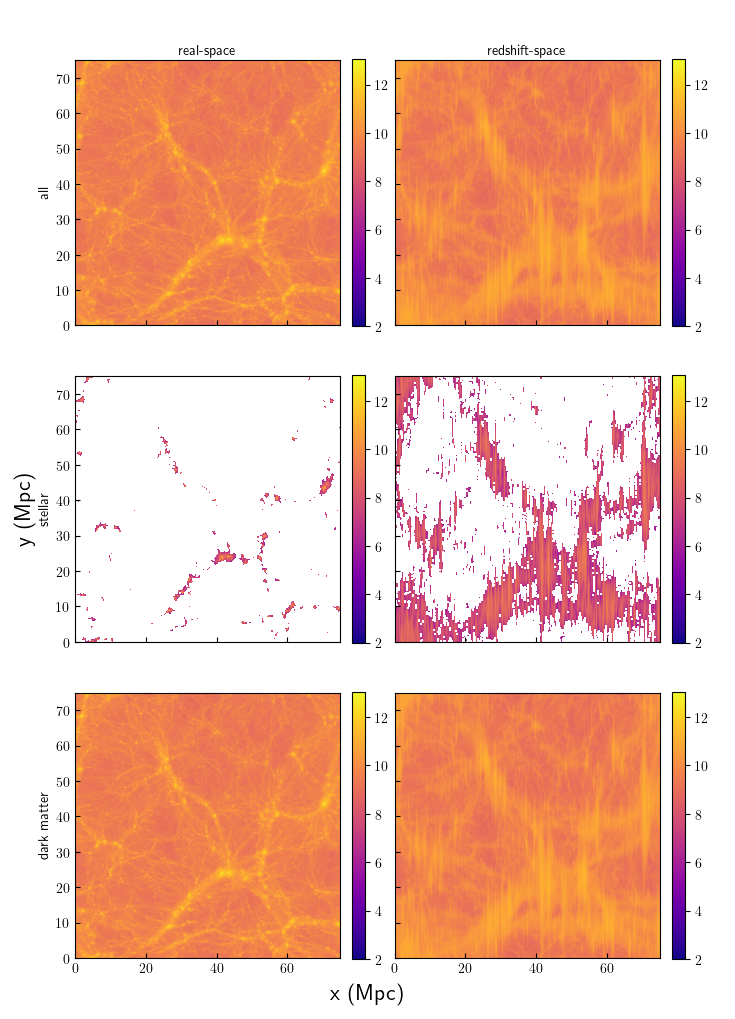
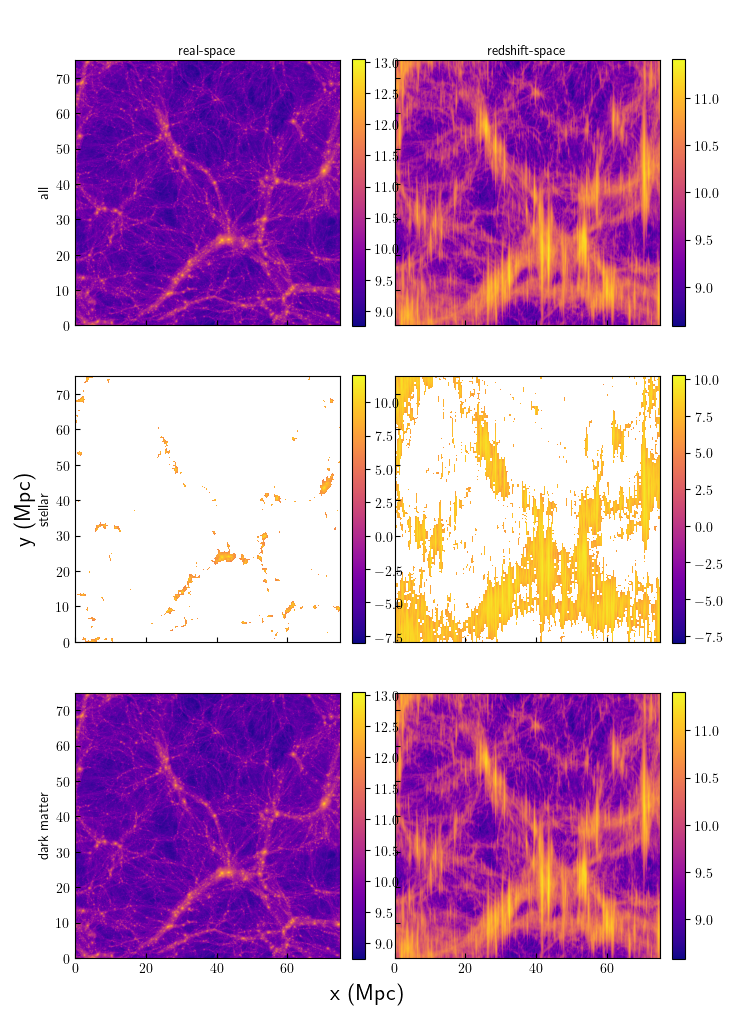
new slice plots!

diff --git a/hc_lib/plots/plot_lib.py b/hc_lib/plots/plot_lib.py
@@ -8,6 +8,7 @@ import copy
 from mpl_toolkits.axes_grid1 import make_axes_locatable
 mpl.rcParams['text.usetex'] = True
 
+
 def getPaths(directory):
     paths = []
     for (root, dirs, files) in os.walk(directory):
@@ -225,9 +226,9 @@ def fillpks(k, pks, boxsize, resolution, keylist = None, label = '',
     return
 
 def plot_slices(field, key_array, row_labels, col_labels, bar_text,
-        panel_length, panel_bt, border, same_cmap = True):
+        panel_length, panel_bt, border, same_cmap = True, 
+        cmap_cycle = ["plasma"]):
     
-    cmap = copy.copy(mpl.cm.get_cmap("plasma"))
     dim = key_array.shape
     xborder = [border*1.5, border]
     fig, panels = createFig(panel_length, dim[0], dim[1], panel_bt, xborder, border)
@@ -249,9 +250,11 @@ def plot_slices(field, key_array, row_labels, col_labels, bar_text,
             key = key_array[i][j]
 
             if same_cmap:
+                cmap = copy.copy(mpl.cm.get_cmap(cmap_cycle[0]))
                 im = plt.imshow(field.slices[key][:], extent=(0, field.box, 0, field.box),
                     origin='lower', cmap=cmap, vmin=nlim[0], vmax=nlim[1])
             else:
+                cmap = copy.copy(mpl.cm.get_cmap(cmap_cycle[j%len(cmap_cycle)]))
                 im = plt.imshow(field.slices[key][:], extent=(0, field.box, 0, field.box),
                     origin='lower', cmap=cmap)
             # on the first row
@@ -277,41 +280,54 @@ def plot_slices(field, key_array, row_labels, col_labels, bar_text,
     return fig, panels
 
 def compare_slices(fields, idx_array, key_array, row_labels, col_labels, bar_text,
-        panel_length, panel_bt, border):
+        panel_length, panel_bt, border, same_cmap = True, cmap_cycle=["plasma"]):
     
-
+    
     dim = key_array.shape
-    fig, panels = createFig(panel_length, dim[0], dim[1], panel_bt, border, border)
+    xborder = [border*1.5, border]
+    fig, panels = createFig(panel_length, dim[0], dim[1], panel_bt, xborder, border)
     nlim = [np.inf, 0]
     for i in range(dim[0]):
         for j in range(dim[1]):
             idx = idx_array[i][j]
-            nmin = np.min(fields[idx[0]][idx[1]].slices[key_array[i][j]])
-            nmax = np.max(fields[idx[0]][idx[1]].slices[key_array[i][j]])
+            key = key_array[i][j]
+            f = fields[idx[0]][idx[1]]
+            nmin = np.min(f.slices[key])
+            nmax = np.max(f.slices[key])
             if nlim[0] > nmin:
                 nlim[0] = nmin
             if nlim[1] < nmax:
                 nlim[1] = nmax
-    
+    nlim[0] = max(nlim[0],2)    
     for i in range(dim[0]):
         for j in range(dim[1]):
             plt.sca(panels[i][j])
             key = key_array[i][j]
             field = fields[idx_array[i][j][0]][idx_array[i][j][1]]
+            if same_cmap:
+                cmap = copy.copy(mpl.cm.get_cmap(cmap_cycle[0]))
+                im = plt.imshow(field.slices[key][:], extent=(0, field.box, 0, field.box),
+                        origin='lower', cmap=cmap, vmin=nlim[0], vmax=nlim[1])
+            else:
+                cmap = copy.copy(mpl.cm.get_cmap(cmap_cycle[j%len(cmap_cycle)]))
+                im = plt.imshow(field.slices[key][:], extent=(0, field.box, 0, field.box),
+                        origin="lower", cmap=cmap)
 
-            plt.imshow(field.slices[key][:], extent=(0, field.box, 0, field.box),
-                    origin='lower', norm=mpl.colors.LogNorm(vmin=nlim[0], vmax=nlim[1]))
-            cbar = plt.colorbar()
-            cbar.set_ylabel(bar_text, rotation=270)
+            cbar = plt.colorbar(im, fraction=0.046, pad=0.04)
+            #cbar.set_ylabel(bar_text, rotation=270)
             # on the first row
+            ax = plt.gca()
+            ax.tick_params(which="both", direction="in")
             if i == 0:
-                ax = plt.gca()
                 ax.xaxis.set_label_position('top')
                 plt.xlabel(col_labels[j])
-            if j == dim[1]-1:
-                ax = plt.gca()
-                ax.yaxis.set_label_position('right')
+            if not i == dim[0]-1:
+                ax.xaxis.set_ticklabels([])
+            if j == 0:
                 plt.ylabel(row_labels[i])
+            else:
+                ax.yaxis.set_ticklabels([])
+
     figsize = fig.get_size_inches()
     fig.text(0.5, border/2/figsize[1], 'x (Mpc)', ha='center',
             va='center', fontsize = 16)

diff --git a/hc_lib/plots/figures/slices.py b/hc_lib/plots/figures/slices.py
@@ -11,20 +11,24 @@ mpl.rcParams['text.usetex'] = True
 def main():
     # remove the script name
     sys.argv.pop(0)
-
+    print("loading paths to pickle files...")
     OUTDIR = sys.argv[0]
     paths = plib.getPaths(OUTDIR)
-       
+
+    print("loading pickle files...")
     h2ptls = plib.checkPkls(paths, {'fieldname':'h2ptl'})
     hiptls = plib.checkPkls(paths, {'fieldname':'hiptl'})
     vns = plib.checkPkls(paths, {'fieldname':'vn'})
     ptls = plib.checkPkls(paths, {'fieldname':'ptl'})
-    
-    make_ptl_slices(hiptls, h2ptls, vns, ptls)
-
-    compare_ptl_slices(hiptls, h2ptls, vns, ptls)
     hisubs = plib.checkPkls(paths, {'fieldname':'hisubhalo'})
 
+    print("now plotting the slices for particle catalog fields...")
+    make_ptl_slices(hiptls, h2ptls, vns, ptls)
+    
+    print("now plotting slices to compare particle catalog fields...")
+    compare_ptl_slices(hiptls, h2ptls, vns, ptls)
+
+    print("now comparing HI slices...")
     compare_HI_slices(hiptls, vns, hisubs)
     return
 
@@ -129,14 +133,14 @@ def compare_ptl_slices(hiptls, h2ptls, vns, ptls, panel_length=3,
 
         def get_snap_idx(flist, snap):
             for f in range(len(flist)):
-                if flist[f].snap == snap:
+                if flist[f].snapshot == snap:
                     return f
             return -1
         
         
         snaps, redshifts = plib.getSnaps(hiptls+h2ptls+vns+ptls)
         fields = [hiptls, h2ptls, vns, ptls]
-        row_labels = ["z=%03d"%z for z in redshifts]
+        row_labels = ["z=%0.02f"%z for z in redshifts]
         for s in range(len(snaps)):
             idx_array = np.empty((len(snaps), 4), dtype=object)
             key_array = np.empty_like(idx_array)
@@ -145,18 +149,18 @@ def compare_ptl_slices(hiptls, h2ptls, vns, ptls, panel_length=3,
             vnidx = get_snap_idx(vns, s)
             ptlidx = get_snap_idx(ptls, s)
             indices = np.array([hiidx, h2idx, vnidx, ptlidx])
-            keys = ['GD14_CICW_mass', 'GD14_CICW_mass', 
+            keys = ['GD14_CICW_mass', 'GD14_CICW', 
                     'vn_CICW_mass','ptl_CICW']
 
             for i in range(len(indices)):
                 idx_array[s, i] = (i, indices[i])
-                key_array[s, i] = (i, keys[i])
+                key_array[s, i] = keys[i]
         
         col_labels = ['D18-Particle HI (GD14)', 'D18-Particle H$_2$ (GD14)', 'VN18-Particle',
                 'Particle']
-        
+        cmap_cycle = ['winter', 'bone', 'plasma', 'jet']
         plib.compare_slices(fields, idx_array, key_array, row_labels, col_labels,
-                "mass", panel_length, panel_bt, border)
+                "mass", panel_length, panel_bt, border, False, cmap_cycle)
         plt.savefig("ptl_slices_comparison_redshift_vs_field.png")
         plt.clf()
         return
@@ -169,7 +173,7 @@ def compare_HI_slices(hiptls, vns, hisubs, panel_length = 3,
     
     def get_snap_idx(flist, snap):
         for f in range(len(flist)):
-            if flist[f].snap == snap:
+            if flist[f].snapshot == snap:
                 return f
         return -1
     
@@ -183,12 +187,11 @@ def compare_HI_slices(hiptls, vns, hisubs, panel_length = 3,
 
         field_indices = [hiptl_idx, vn_idx, hisub_idx]
 
-        keys = ['GD14_CICW_mass', 'GD14_CICW_mass', 
-                'vn_CICW_mass','ptl_CICW']
+        keys = ['GD14_CICW_mass','vn_CICW_mass', 'm_hi_GD14_map_CICW_diemer']
         for n in range(len(field_indices)):
             idx_array[s, n] = (n, field_indices[n])
             key_array[s, n] = keys[n]
-    row_labels = ["z=%03d"%z for z in redshifts]
+    row_labels = ["z=%0.02f"%z for z in redshifts]
     plib.compare_slices([hiptls, vns, hisubs], idx_array, key_array,
             row_labels, ["D18-Particle", "VN18-Particle", "D18-Subhalo"],
             "HI mass", panel_length, panel_bt, border)
